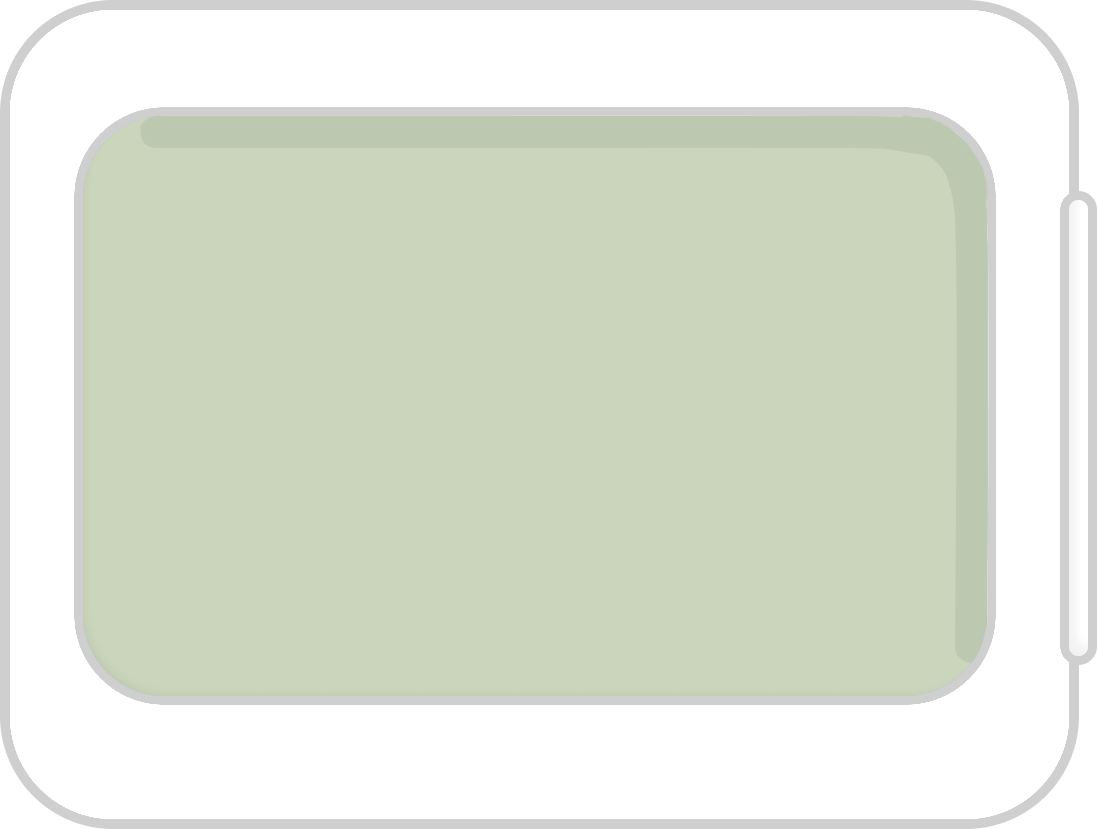
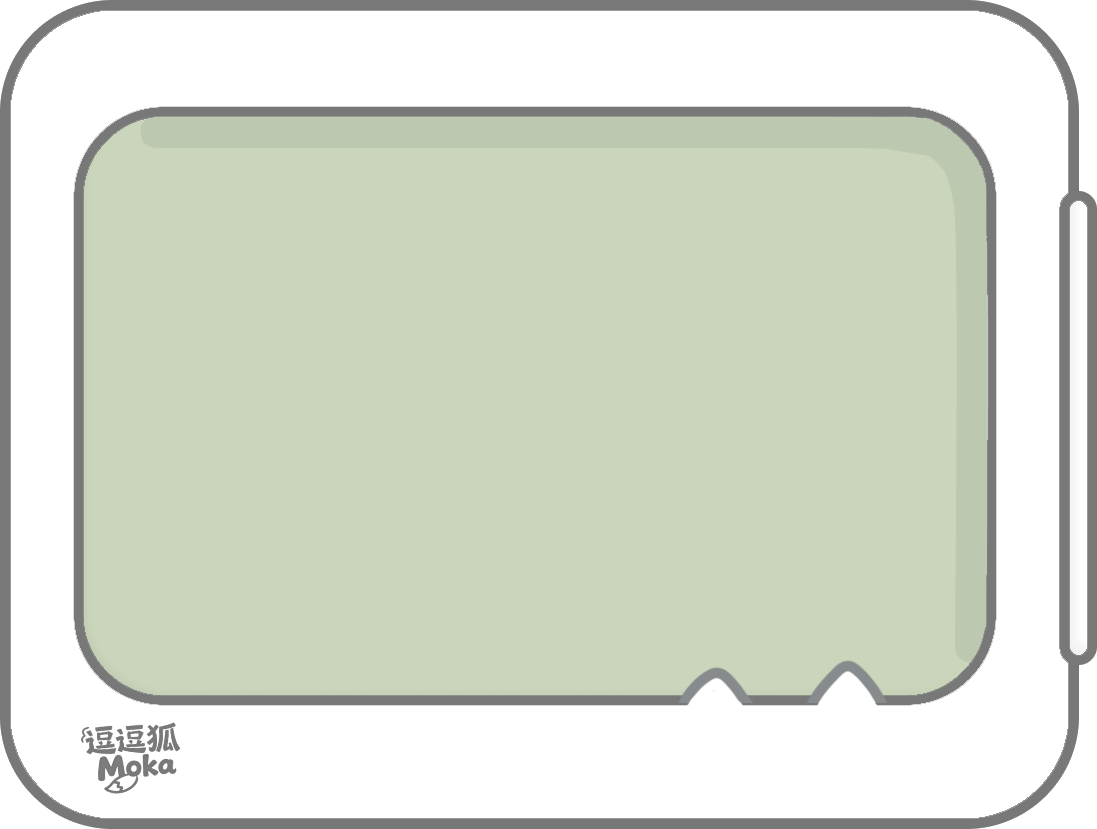
feat: 黑白

Changed region(s): [[0.0, 0.0, 0.9608, 1.0], [0.9608, 0.0603, 1.0, 0.9349], [0.062, 0.1206, 0.8678, 0.8142]]

diff --git a/src/components/PlayerStatus.tsx b/src/components/PlayerStatus.tsx
@@ -25,11 +25,11 @@ export function PlayerStatus({ player, synthesizer }: PlayerStatusProps) {
         </div>
         <div className="w-full bg-gray-200 rounded-full h-2">
           <div
-            className={`h-2 rounded-full transition-all ${
-              player.health <= 3 ? 'bg-gray-800' : 
-              player.health <= 6 ? 'bg-gray-600' : 'bg-gray-500'
-            }`}
-            style={{ width: `${(player.health / player.maxHealth) * 100}%` }}
+            className="h-2 rounded-full transition-all striped-bg"
+            style={{
+              width: `${(player.health / player.maxHealth) * 100}%`,
+              backgroundColor: player.health <= 3 ? '#1f2937' : player.health <= 6 ? '#4b5563' : '#6b7280',
+            }}
           />
         </div>
       </div>
@@ -47,11 +47,11 @@ export function PlayerStatus({ player, synthesizer }: PlayerStatusProps) {
         </div>
         <div className="w-full bg-gray-200 rounded-full h-2">
           <div
-            className={`h-2 rounded-full transition-all ${
-              player.hunger === 0 ? 'bg-gray-800' : 
-              player.hunger <= 3 ? 'bg-gray-600' : 'bg-gray-500'
-            }`}
-            style={{ width: `${(player.hunger / player.maxHunger) * 100}%` }}
+            className="h-2 rounded-full transition-all striped-bg"
+            style={{
+              width: `${(player.hunger / player.maxHunger) * 100}%`,
+              backgroundColor: player.hunger === 0 ? '#1f2937' : player.hunger <= 3 ? '#4b5563' : '#6b7280',
+            }}
           />
         </div>
         {player.hunger === 0 && (
@@ -85,7 +85,7 @@ export function PlayerStatus({ player, synthesizer }: PlayerStatusProps) {
       </div>
 
       {/* 卡牌统计 */}
-      <div className="grid grid-cols-2 gap-1.5 text-xs">
+      <div className="grid grid-cols-4 gap-1.5 text-xs">
         <div className="bg-gray-100 p-1.5 rounded">
           <div className="font-semibold text-gray-700 text-xs">工具</div>
           <div className="text-xl font-bold text-gray-700">

diff --git a/src/app/globals.css b/src/app/globals.css
@@ -30,3 +30,64 @@ body {
   color: var(--foreground);
   font-family: Arial, Helvetica, sans-serif;
 }
+
+/* 波点背景样式 */
+.polka-dot-bg {
+  background-image: radial-gradient(circle, rgba(0, 0, 0, 0.15) 2px, transparent 2px);
+  background-size: 10px 10px;
+  background-position: 0 0;
+}
+
+.polka-dot-bg-light {
+  background-image: radial-gradient(circle, rgba(0, 0, 0, 0.1) 2px, transparent 2px);
+  background-size: 10px 10px;
+  background-position: 0 0;
+}
+
+/* 卡牌类型波点背景 */
+.polka-dot-tool {
+  background-image: radial-gradient(circle, rgba(59, 130, 246, 0.2) 2px, transparent 2px);
+  background-size: 10px 10px;
+  background-position: 0 0;
+}
+
+.polka-dot-food {
+  background-image: radial-gradient(circle, rgba(34, 197, 94, 0.2) 2px, transparent 2px);
+  background-size: 10px 10px;
+  background-position: 0 0;
+}
+
+.polka-dot-food-spoiled {
+  background-image: radial-gradient(circle, rgba(107, 114, 128, 0.2) 2px, transparent 2px);
+  background-size: 10px 10px;
+  background-position: 0 0;
+}
+
+.polka-dot-auxiliary {
+  background-image: radial-gradient(circle, rgba(234, 179, 8, 0.2) 2px, transparent 2px);
+  background-size: 10px 10px;
+  background-position: 0 0;
+}
+
+.polka-dot-special {
+  background-image: radial-gradient(circle, rgba(168, 85, 247, 0.2) 2px, transparent 2px);
+  background-size: 10px 10px;
+  background-position: 0 0;
+}
+
+.polka-dot-product {
+  background-image: radial-gradient(circle, rgba(249, 115, 22, 0.2) 2px, transparent 2px);
+  background-size: 10px 10px;
+  background-position: 0 0;
+}
+
+/* 黑白斜线背景样式 */
+.striped-bg {
+  background-image: repeating-linear-gradient(
+    45deg,
+    rgba(0, 0, 0, 0.4),
+    rgba(0, 0, 0, 0.4) 2px,
+    rgba(255, 255, 255, 0.2) 2px,
+    rgba(255, 255, 255, 0.2) 4px
+  );
+}

diff --git a/src/components/GameBoard.tsx b/src/components/GameBoard.tsx
@@ -148,13 +148,18 @@ export default function GameBoard() {
   };
 
   return (
-    <div className="h-screen bg-gradient-to-br from-gray-50 to-gray-100 p-2 overflow-hidden flex flex-col">
+    <div className="h-screen bg-gradient-to-br from-gray-50 to-gray-100 overflow-hidden flex flex-col">
       <div className="flex-1 overflow-hidden flex flex-col">
         {/* 顶部标题栏 */}
-        <div className="mb-2 flex justify-between items-center flex-shrink-0">
-          <h1 className="text-2xl font-bold text-gray-800">
-            逗逗狐的合成厨房
-          </h1>
+        <div className="mb-2 border-b border-gray-300 flex justify-between items-center flex-shrink-0 pl-2 pr-2">
+          <div className="flex items-center gap-3 h-full">
+            <img src="/assets/images/other/logo.png" alt="" className='w-[50px] h-[50px]' />
+
+            <h1 className="text-2xl font-bold text-gray-800">
+              逗逗狐的合成厨房
+            </h1>
+            <div className="self-stretch w-px bg-gray-300"></div>
+          </div>
 
           <div className="flex items-center gap-4">
             <div className="cursor-pointer" onClick={() => {
@@ -215,7 +220,7 @@ export default function GameBoard() {
             </div>
           </div>
         ) : (
-          <div className="flex-1 overflow-hidden flex flex-col gap-2">
+          <div className="flex-1 overflow-hidden flex flex-col gap-2 pl-2 pr-2 pb-2">
             {/* 主内容区 */}
             <div className="h-[380px] overflow-hidden flex gap-2 min-h-0">
               {/* 左侧：紧凑的玩家状态和任务 */}

diff --git a/src/components/CardDisplay.tsx b/src/components/CardDisplay.tsx
@@ -74,12 +74,29 @@ export function CardDisplay({
     }
   };
 
+  const getPolkaDotClass = () => {
+    switch (card.cardType) {
+      case 'tool':
+        return 'polka-dot-tool';
+      case 'food':
+        return card.isSpoiled() ? 'polka-dot-food-spoiled' : 'polka-dot-food';
+      case 'auxiliary':
+        return 'polka-dot-auxiliary';
+      case 'special':
+        return 'polka-dot-special';
+      case 'product':
+        return 'polka-dot-product';
+      default:
+        return 'polka-dot-bg-light';
+    }
+  };
+
   return (
     <div
       className={`
         relative border-2 rounded-lg p-1.5 cursor-pointer transition-all
         ${getCardColor()}
-        polka-dot-bg-light
+        ${getPolkaDotClass()}
         ${
           isSelected
             ? 'ring-2 ring-gray-500 scale-[1.03] z-50 shadow-lg'

diff --git a/src/components/SynthesisPanel1.tsx b/src/components/SynthesisPanel1.tsx
@@ -80,7 +80,7 @@ export function SynthesisPanel({
             <div className="mt-2 space-y-1 max-h-[50px] overflow-y-auto">
               {recentMessages.reverse().map((msg, index) => (
                 <div key={index} className="text-[16px] text-gray-800">
-                  <span className="text-gray-500 text-[12px]">
+                  <span className="text-green-600 text-[12px]">
                     [{latestTimestamp}]
                   </span>
                   <span className="text-gray-700">系统消息：</span>
